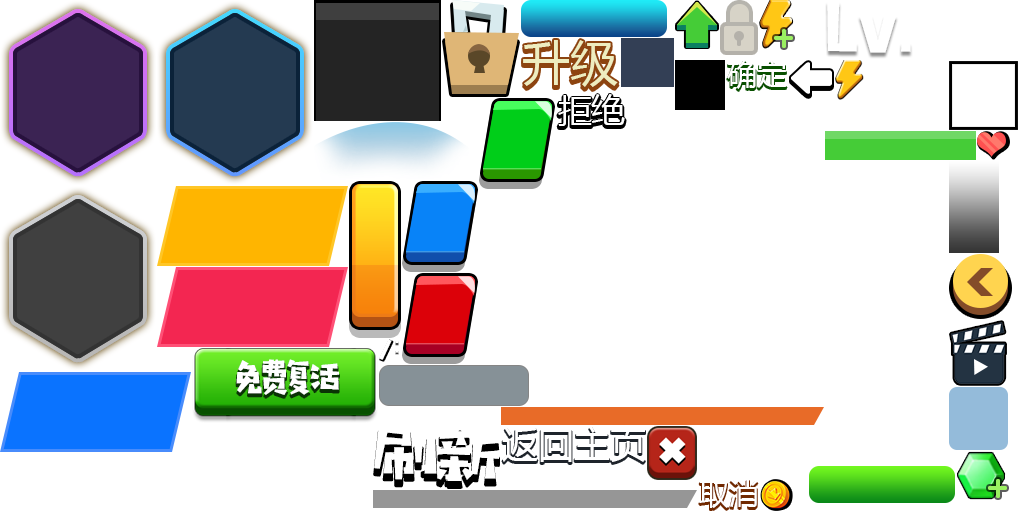
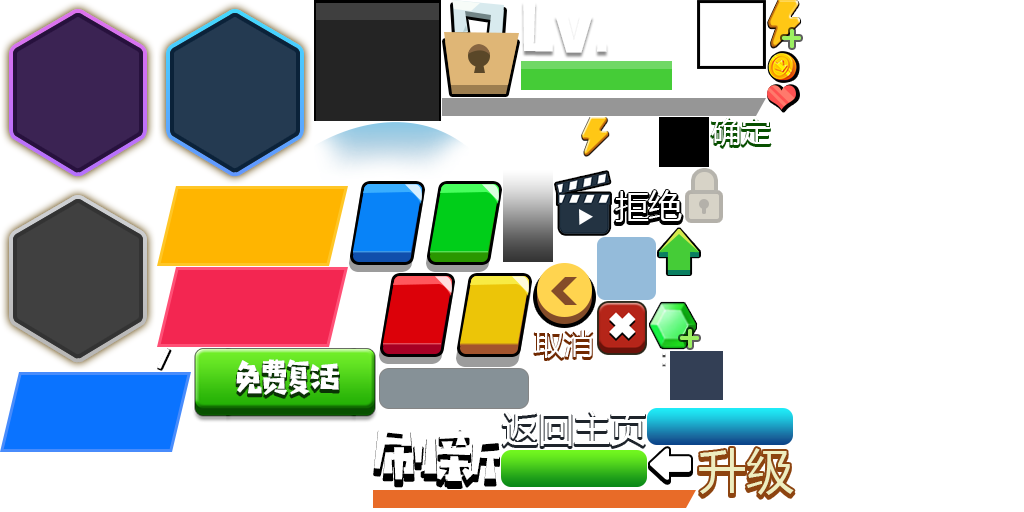
no message

Changed region(s): [[0.3438, 0.0, 1.0, 1.0], [0.7812, 0.2188, 1.0, 0.3125], [0.9375, 0.0938, 1.0, 0.125]]

diff --git a/Game3D01/src/ui/layaMaxUI.ts b/Game3D01/src/ui/layaMaxUI.ts
@@ -44,8 +44,11 @@ export module ui.test {
 		public jingyantiao:Laya.Image;
 		public zanting:Laya.Button;
 		public jinbishu:Laya.FontClip;
-		public shuzi:Laya.FontClip;
-        public static  uiView:any ={"type":"Dialog","props":{"width":750,"height":80},"compId":2,"child":[{"type":"Box","props":{"y":28,"x":195,"width":400,"height":37},"compId":11,"child":[{"type":"Image","props":{"y":-18,"x":-14,"width":435,"skin":"bg/qianshu.png","sizeGrid":"0,22,0,22","height":67,"alpha":0.8},"compId":3},{"type":"Box","props":{"y":-18,"x":-12,"width":419,"var":"lvBar","height":66},"compId":12,"child":[{"type":"Image","props":{"width":431,"var":"jingyantiao","skin":"bg/jingyantiaoshang.png","sizeGrid":"-11,34,-17,24","height":65},"compId":4},{"type":"Image","props":{"y":16,"x":12,"width":415,"skin":"bg/jingyantiaoguang.png","sizeGrid":"0,43,0,32","height":18},"compId":5}]}]},{"type":"Button","props":{"y":41,"x":665,"width":85,"var":"zanting","stateNum":1,"skin":"bg/btn_zhanting.png","pivotY":34,"pivotX":43,"height":67},"compId":6},{"type":"Sprite","props":{"y":10,"x":35,"texture":"bg/qianshu.png","scaleX":1,"alpha":0.8},"compId":7},{"type":"FontClip","props":{"y":28,"x":79,"width":36,"var":"jinbishu","value":"123","skin":"main/clipshuzi.png","sheet":"123456 7890-+ /:cdef","scaleY":0.3,"scaleX":0.3,"height":121,"align":"left"},"compId":8},{"type":"Sprite","props":{"y":1,"x":325,"texture":"main/dengji.png"},"compId":9},{"type":"FontClip","props":{"y":5,"x":413,"width":294,"var":"shuzi","value":"2","skin":"main/clipshuzi.png","sheet":"123456 7890-+ /:cdef","scaleY":0.5,"scaleX":0.5,"height":113,"align":"left"},"compId":10},{"type":"Sprite","props":{"y":9,"x":4,"texture":"bg/dongjin.png","scaleY":1,"scaleX":1},"compId":13}],"loadList":["bg/qianshu.png","bg/jingyantiaoshang.png","bg/jingyantiaoguang.png","bg/btn_zhanting.png","main/clipshuzi.png","main/dengji.png","bg/dongjin.png"],"loadList3D":[]};
+		public shuzi:Laya.Label;
+		public shuzizuo:Laya.Label;
+		public shuziyou:Laya.Label;
+		public boss:Laya.Sprite;
+        public static  uiView:any ={"type":"Dialog","props":{"width":750,"height":418},"compId":2,"child":[{"type":"Box","props":{"y":290,"x":671,"width":60,"height":138},"compId":11,"child":[{"type":"Image","props":{"y":0,"x":0,"skin":"bg/jinengtiaoxia.png","sizeGrid":"0,22,0,22","alpha":0.8},"compId":3},{"type":"Box","props":{"y":0,"x":0,"var":"lvBar"},"compId":12,"child":[{"type":"Image","props":{"var":"jingyantiao","skin":"bg/jinengtiaoshang.png","sizeGrid":"-11,34,-17,24"},"compId":4}]}]},{"type":"Button","props":{"y":141,"x":701,"width":85,"var":"zanting","stateNum":1,"skin":"bg/btn_zhanting.png","pivotY":34,"pivotX":43,"height":67},"compId":6},{"type":"Sprite","props":{"y":28,"x":39,"texture":"bg/qianshu.png","scaleX":1,"alpha":0.8},"compId":7},{"type":"FontClip","props":{"y":45,"x":83,"width":36,"var":"jinbishu","value":"123","skin":"main/clipshuzi.png","sheet":"123456 7890-+ /:cdef","scaleY":0.3,"scaleX":0.3,"height":121,"align":"left"},"compId":8},{"type":"Image","props":{"y":26,"x":8,"skin":"bg/dongjin.png","scaleY":1,"scaleX":1},"compId":13},{"type":"Image","props":{"y":10,"x":322,"skin":"bg/daguan.png"},"compId":15},{"type":"Image","props":{"y":28,"x":210,"skin":"bg/xiaoguan.png"},"compId":16},{"type":"Image","props":{"y":28,"x":510,"skin":"bg/xiaoguan.png"},"compId":17},{"type":"Sprite","props":{"y":69,"x":283,"texture":"bg/guandian.png"},"compId":18},{"type":"Sprite","props":{"y":69,"x":300,"texture":"bg/guandian.png"},"compId":19},{"type":"Sprite","props":{"y":69,"x":317,"texture":"bg/guandian.png"},"compId":20},{"type":"Sprite","props":{"y":69.5,"x":458,"texture":"bg/guandian.png"},"compId":21},{"type":"Sprite","props":{"y":69,"x":475,"texture":"bg/guandian.png"},"compId":22},{"type":"Sprite","props":{"y":69,"x":492,"texture":"bg/guandian.png"},"compId":23},{"type":"Label","props":{"y":48.5,"x":369,"wordWrap":true,"width":42,"var":"shuzi","text":"99","height":32,"fontSize":30,"color":"#f3e9e9","align":"center"},"compId":24},{"type":"Label","props":{"y":51.5,"x":223.5,"wordWrap":true,"width":42,"var":"shuzizuo","text":"98","height":32,"fontSize":24,"color":"#f3e9e9","align":"center"},"compId":25},{"type":"Label","props":{"y":51.5,"x":523.5,"wordWrap":true,"width":42,"var":"shuziyou","text":"98","height":32,"fontSize":24,"color":"#f3e9e9","align":"center"},"compId":26},{"type":"Sprite","props":{"y":37,"x":354,"var":"boss","texture":"bg/BOSS.png"},"compId":27}],"loadList":["bg/jinengtiaoxia.png","bg/jinengtiaoshang.png","bg/btn_zhanting.png","bg/qianshu.png","main/clipshuzi.png","bg/dongjin.png","bg/daguan.png","bg/xiaoguan.png","bg/guandian.png","bg/BOSS.png"],"loadList3D":[]};
         constructor(){ super()}
         createChildren():void {
             super.createChildren();
@@ -71,7 +74,7 @@ export module ui.test {
 		public btnPlay:Laya.Button;
 		public btnSound:Laya.Button;
 		public btnHome:Laya.Button;
-        public static  uiView:any ={"type":"View","props":{"width":750,"height":1334},"compId":2,"child":[{"type":"Box","props":{"alpha":0.6},"compId":24,"child":[{"type":"Rect","props":{"width":750,"lineWidth":1,"height":1700,"fillColor":"#000000"},"compId":25}]},{"type":"Box","props":{"x":0,"width":750,"height":1256,"centerY":0},"compId":23,"child":[{"type":"Image","props":{"y":205,"x":248,"skin":"bg/xianglian.png","scaleX":-1},"compId":3},{"type":"Image","props":{"y":204,"x":498,"skin":"bg/xianglian.png"},"compId":4},{"type":"Label","props":{"y":89,"x":323,"var":"baioti","text":"暂停","fontSize":50,"color":"#ffffff","align":"center"},"compId":5},{"type":"Label","props":{"y":192,"x":255,"width":239,"text":"已学会的能力","height":36,"fontSize":36,"color":"#ffffff","align":"center"},"compId":6},{"type":"Button","props":{"y":1099,"x":373,"width":296,"var":"btnPlay","stateNum":1,"skin":"main/btn_huang.png","sizeGrid":"0,22,0,22","height":157,"anchorY":0.5,"anchorX":0.5},"compId":17,"child":[{"type":"Sprite","props":{"y":40,"x":125,"texture":"bg/sanjiao.png"},"compId":18}]},{"type":"Button","props":{"y":907,"x":198,"width":296,"var":"btnSound","stateNum":1,"skin":"main/btn_huang.png","sizeGrid":"0,22,0,22","height":157,"anchorY":0.5,"anchorX":0.5},"compId":19,"child":[{"type":"Sprite","props":{"y":36,"x":104,"texture":"bg/zhanting.png"},"compId":20}]},{"type":"Button","props":{"y":907,"x":549,"width":296,"var":"btnHome","stateNum":1,"skin":"main/btn_huang.png","sizeGrid":"0,22,0,22","height":157,"anchorY":0.5,"anchorX":0.5},"compId":21,"child":[{"type":"Sprite","props":{"y":38,"x":109,"texture":"bg/huijia.png"},"compId":22}]}]}],"loadList":["bg/xianglian.png","main/btn_huang.png","bg/sanjiao.png","bg/zhanting.png","bg/huijia.png"],"loadList3D":[]};
+        public static  uiView:any ={"type":"View","props":{"width":750,"height":1334},"compId":2,"child":[{"type":"Box","props":{"alpha":0.6},"compId":24,"child":[{"type":"Rect","props":{"width":750,"lineWidth":1,"height":1700,"fillColor":"#000000"},"compId":25}]},{"type":"Box","props":{"x":0,"width":750,"height":1256,"centerY":0},"compId":23,"child":[{"type":"Label","props":{"y":57,"x":304.5,"var":"baioti","text":"暂停","fontSize":70,"color":"#ffffff","align":"center"},"compId":5},{"type":"Label","props":{"y":192,"x":255,"width":239,"text":"已学会的能力","height":36,"fontSize":36,"color":"#ffffff","align":"center"},"compId":6},{"type":"Button","props":{"y":1099,"x":373,"width":296,"var":"btnPlay","stateNum":1,"skin":"main/btn_lv.png","sizeGrid":"0,22,0,22","height":157,"anchorY":0.5,"anchorX":0.5},"compId":17,"child":[{"type":"Sprite","props":{"y":31,"x":125,"texture":"bg/sanjiao.png"},"compId":18}]},{"type":"Button","props":{"y":907,"x":198,"width":296,"var":"btnSound","stateNum":1,"skin":"main/btn_huang.png","sizeGrid":"0,22,0,22","height":157,"anchorY":0.5,"anchorX":0.5},"compId":19,"child":[{"type":"Sprite","props":{"y":29,"x":104,"texture":"bg/zhanting.png"},"compId":20}]},{"type":"Button","props":{"y":907,"x":549,"width":296,"var":"btnHome","stateNum":1,"skin":"main/btn_huang.png","sizeGrid":"0,22,0,22","height":157,"anchorY":0.5,"anchorX":0.5},"compId":21,"child":[{"type":"Sprite","props":{"y":29,"x":109,"texture":"bg/huijia.png"},"compId":22}]}]}],"loadList":["main/btn_lv.png","bg/sanjiao.png","main/btn_huang.png","bg/zhanting.png","bg/huijia.png"],"loadList3D":[]};
         constructor(){ super()}
         createChildren():void {
             super.createChildren();

diff --git a/Game3D01/src/main/scene/battle/TopUI.ts b/Game3D01/src/main/scene/battle/TopUI.ts
@@ -29,7 +29,7 @@ import App from "../../../core/App";
         Game.hero.playerData.level = lv;
         if(!this.isTwo)
         {
-            this.shuzi.value = "" + Game.hero.playerData.level;
+            this.shuzi.text = "" + Game.hero.playerData.level;
         }
         
 
@@ -44,23 +44,23 @@ import App from "../../../core/App";
         this.lastWidth += 15;
         if(this.isTwo)
         {
-            if(this.lastWidth >= this.lvBar.width)
+            if(this.lastWidth >= this.lvBar.height)
             {
                 this.lastWidth = 0;
                 this.isTwo = false;
-                this.shuzi.value = "" + Game.hero.playerData.level;
+                this.shuzi.text = "" + Game.hero.playerData.level;
             }
         }
         else
         {
-            if(this.lastWidth >= this.lvBar.width * vv)
+            if(this.lastWidth >= this.lvBar.height * vv)
             {
-                this.lastWidth = this.lvBar.width * vv;
+                this.lastWidth = this.lvBar.height * vv;
                 Laya.timer.clear(this,this.onLoop);
             }
         }
         this.lastWidth = Math.max(1,this.lastWidth);
-        this.lvBar.scrollRect = new Laya.Rectangle(0,0,this.lastWidth,this.lvBar.height);
+        this.lvBar.scrollRect = new Laya.Rectangle(0,0,this.lvBar.width,this.lastWidth);
     }
 
     updateCoins():void

diff --git a/Game3D01/src/GameConfig.ts b/Game3D01/src/GameConfig.ts
@@ -10,7 +10,7 @@ export default class GameConfig{
     static screenMode:string="none";
     static alignV:string="top";
     static alignH:string="left";
-    static startScene:any="test/setting.scene";
+    static startScene:any="test/battle.scene";
     static sceneRoot:string="";
     static debug:boolean=false;
     static stat:boolean=true;
